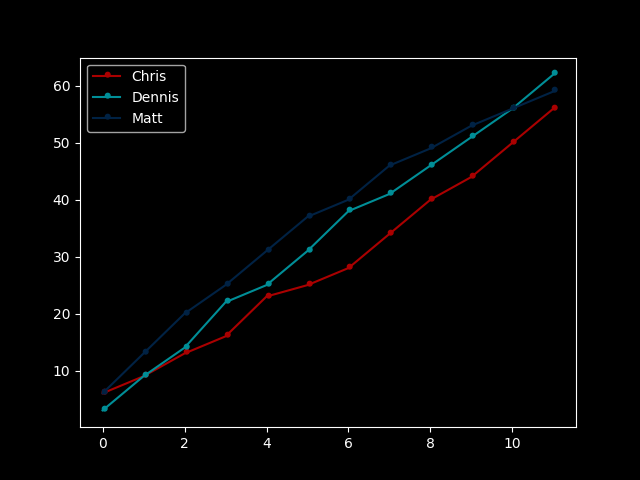
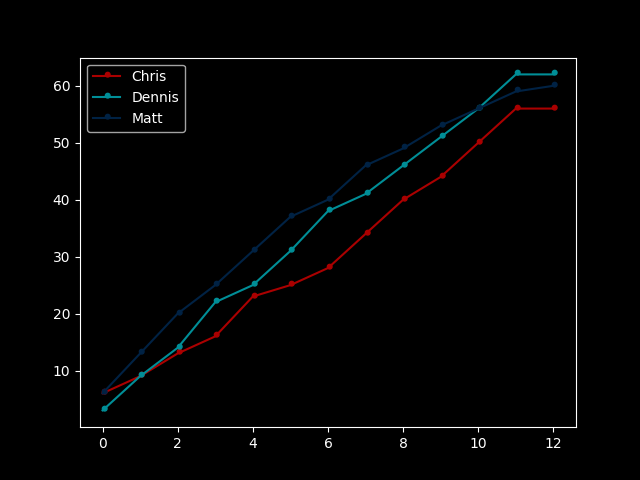
update2021-12-03

diff --git a/nfl-2021/index.html b/nfl-2021/index.html
@@ -242,6 +242,20 @@
       </tr>
       <tr>
        <th>
+        13
+       </th>
+       <td>
+        0
+       </td>
+       <td>
+        0
+       </td>
+       <td>
+        1
+       </td>
+      </tr>
+      <tr>
+       <th>
         Total
        </th>
        <td>
@@ -251,7 +265,7 @@
         62
        </td>
        <td>
-        59
+        60
        </td>
       </tr>
      </tbody>
@@ -400,7 +414,7 @@
   <html>
    <body>
     <p id="updates">
-     updated: 2021-12-02 ...version: f58_w
+     updated: 2021-12-03 ...version: r65_t
     </p>
    </body>
   </html>
